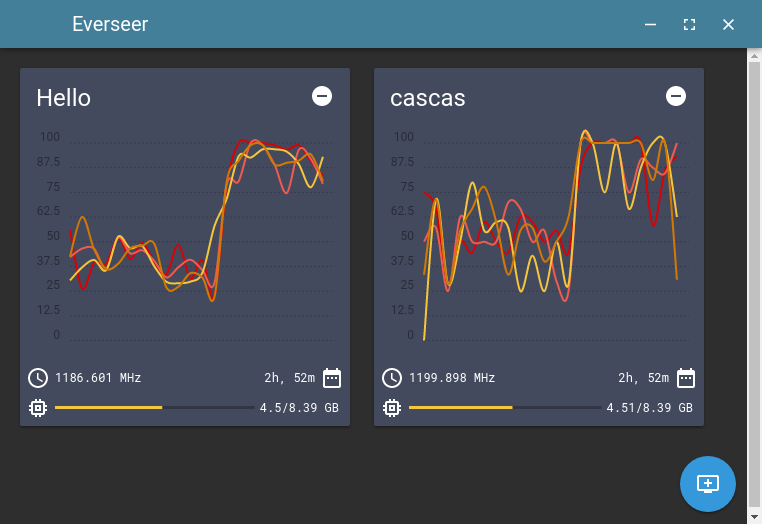
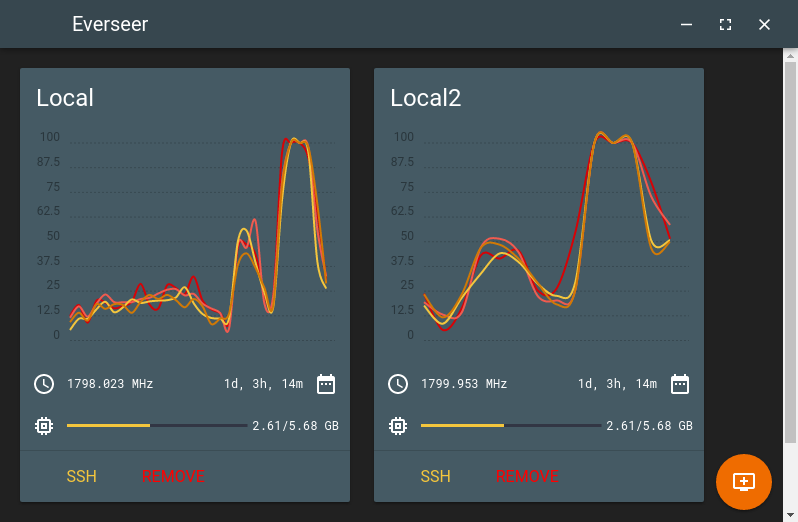
changed some colors and margins

diff --git a/everseer_client/customstyle.html b/everseer_client/customstyle.html
@@ -1,11 +1,17 @@
 <style is="custom-style">
   :root {
-    --main-bg-color: #2e2e2e;
+    /*--main-bg-color: #2e2e2e;
     --main-card-color: #444A5D;
     --headerbar-color: #437F99;
-    --main-accent-color: #3498DB;
+    --main-accent-color: #3498DB;*/
     --text-gray-on-gray: #575757;
     --rad-yellow: #F4C63D;
+
+    /* Test colors vvv */
+    --main-bg-color: #212121;
+    --main-card-color: #455A64;
+    --headerbar-color: #37474F;
+    --main-accent-color: #EF6C00;
   }
 
   body, html {
@@ -67,12 +73,6 @@
   #confirmAddMachineButton {
         color: var(--rad-yellow);
         --paper-button-ink-color: var(--rad-yellow);
-  }
-
-  .removeIButton {
-      position: absolute;
-      right: 8px;
-      top: 8px;
   }
 
   .removeButton {
@@ -143,6 +143,10 @@
     color: white;
     --paper-card-header-color: white;
     @apply(--layout-vertical);
+  }
+
+  .machineCard iron-icon {
+    margin: 6px 6px 6px 6px;
   }
 
   .machineCardContainer {
